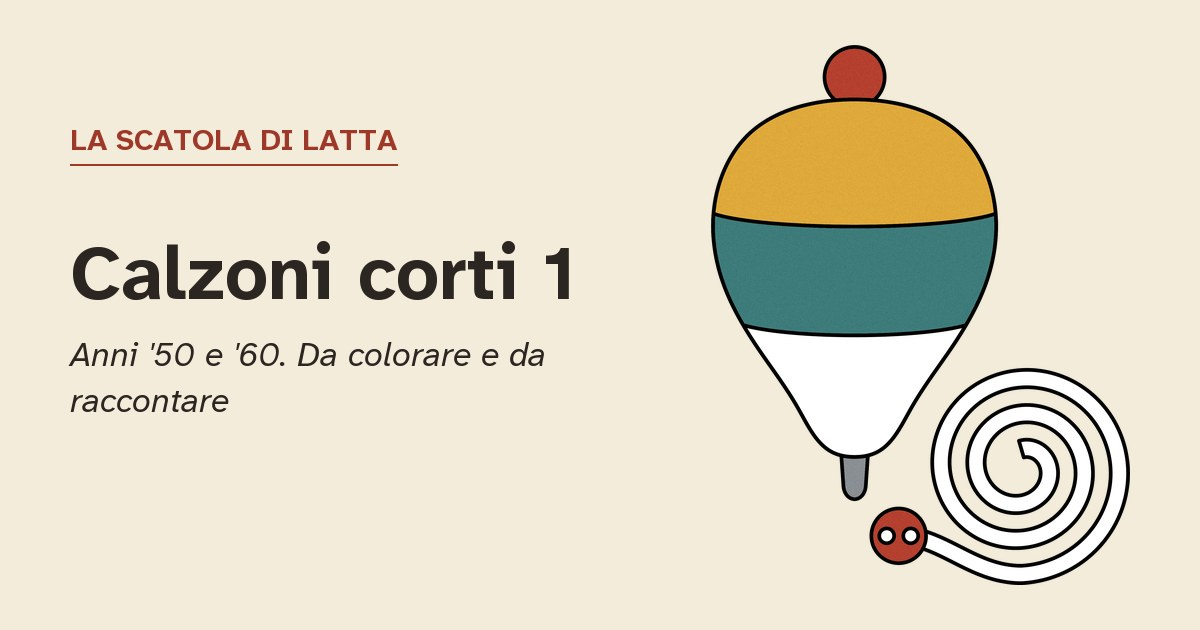
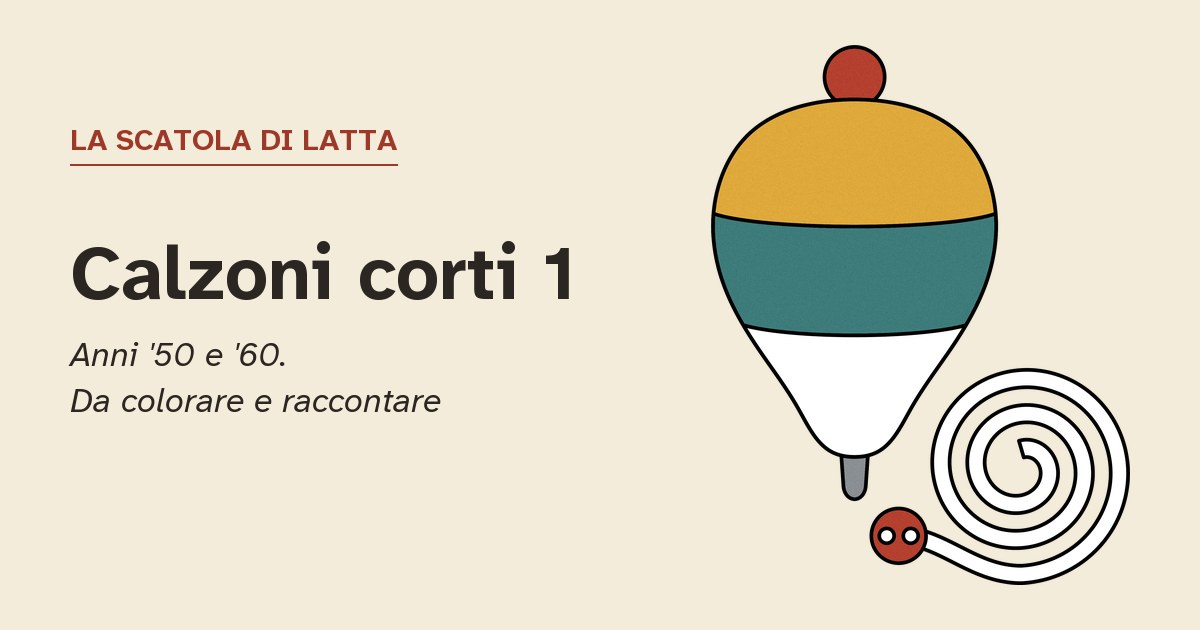
Toglie il secondo «da» dal sottotitolo e rifà le anteprime per i social
Sottotitolo deciso il 14 ottobre: "Anni '50 e '60. Da colorare e
raccontare", anche nei sottotitoli lunghi, nella prima riga del retro
e nelle descrizioni. Nelle anteprime per i social il sottotitolo va a
capo dopo il punto quando non sta su una riga.

Changed region(s): [[0.0617, 0.5429, 0.4625, 0.6635]]

diff --git a/src/sito.ts b/src/sito.ts
@@ -1,7 +1,7 @@
 // Impostazioni comuni a tutto il sito.
 
 export const NOME = 'La scatola di latta';
-export const SOTTOTITOLO = "Anni '50 e '60. Da colorare e da raccontare";
+export const SOTTOTITOLO = "Anni '50 e '60. Da colorare e raccontare";
 
 // L'indirizzo email è diviso in due parti e viene ricomposto nella pagina da un
 // piccolo script, così i programmi che raccolgono indirizzi non lo trovano.

diff --git a/scripts/prepara_immagini.py b/scripts/prepara_immagini.py
@@ -28,7 +28,7 @@ FONTS = MATERIALI / "fonts"
 CREMA = (0xF4, 0xEC, 0xDB)
 ROSSO = (0x9E, 0x38, 0x29)
 TESTO = (0x2B, 0x26, 0x21)
-SOTTOTITOLO_COPERTINA = "Anni '50 e '60. Da colorare e da raccontare"
+SOTTOTITOLO_COPERTINA = "Anni '50 e '60. Da colorare e raccontare"
 
 
 def larghezza(img: Image.Image, w: int) -> Image.Image:
@@ -88,7 +88,14 @@ def anteprima_volume(titolo: str, colorato: Image.Image, destinazione: Path) -> 
         d.text((70, y), riga, font=f_titolo, fill=TESTO)
         y += 92
     f_sotto = font("AHN-Italic.ttf", 34)
-    for riga in a_capo(d, SOTTOTITOLO_COPERTINA, f_sotto, 1200 - 70 - figura.width - 140):
+    spazio = 1200 - 70 - figura.width - 140
+    if d.textlength(SOTTOTITOLO_COPERTINA, font=f_sotto) <= spazio:
+        righe_sotto = [SOTTOTITOLO_COPERTINA]
+    else:
+        # Se non sta su una riga si va a capo dopo il punto, non a metà frase.
+        prima, seconda = SOTTOTITOLO_COPERTINA.split(". ", 1)
+        righe_sotto = [f"{prima}.", *a_capo(d, seconda, f_sotto, spazio)]
+    for riga in righe_sotto:
         d.text((70, y + 16), riga, font=f_sotto, fill=TESTO)
         y += 46
     destinazione.parent.mkdir(parents=True, exist_ok=True)

diff --git a/docs/decisioni.md b/docs/decisioni.md
@@ -59,3 +59,4 @@
 - [x] Posta della collana: inoltro attivo verso la casella personale di Laura (webmail Register.it → Impostazioni → Inoltro, "Invia copia a"), con l'originale che resta anche in info@. L'indirizzo personale non va scritto in questo repository pubblico.
 - [ ] Laura: mandare un messaggio di prova a info@lascatoladilatta.it e controllare che arrivi anche nella casella personale.
 - [ ] Facoltativo: in Gmail, "Invia messaggio come" info@lascatoladilatta.it (server authsmtp.securemail.pro, porta 465 SSL), per rispondere senza mostrare l'indirizzo personale.
+- [ ] Sottotitolo cambiato il 14 ottobre 2026 in "Anni '50 e '60. Da colorare e raccontare" (tolto il secondo "da"), anche nei sottotitoli lunghi e nella prima riga del retro. Testi già corretti da Claude in src/sito.ts, src/layouts/Base.astro, src/pages/index.astro, src/pages/contatti/index.astro, src/content/volumi/*.json e scripts/prepara_immagini.py. Claude Code: rigenerare con scripts/prepara_immagini.py le anteprime per i social (condivisione/*.jpg), che contengono ancora il sottotitolo vecchio, controllare e pubblicare. Copertine nuove in materiali/copertine.
